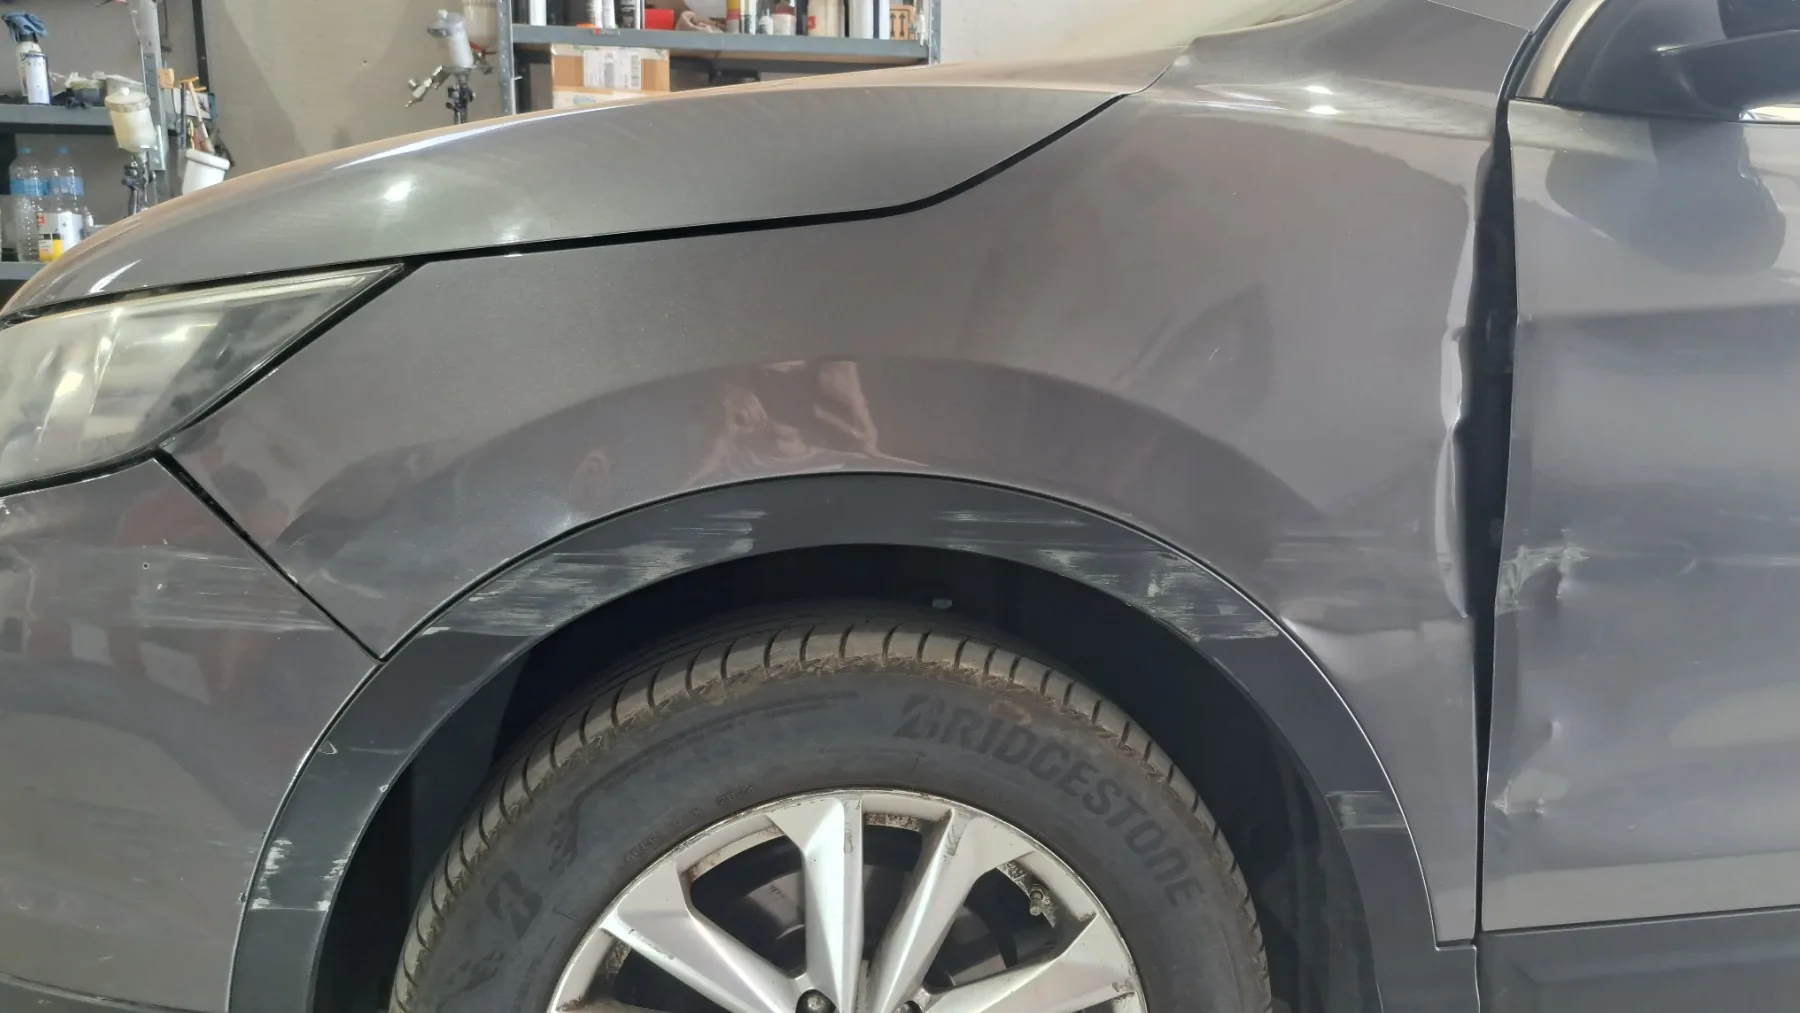
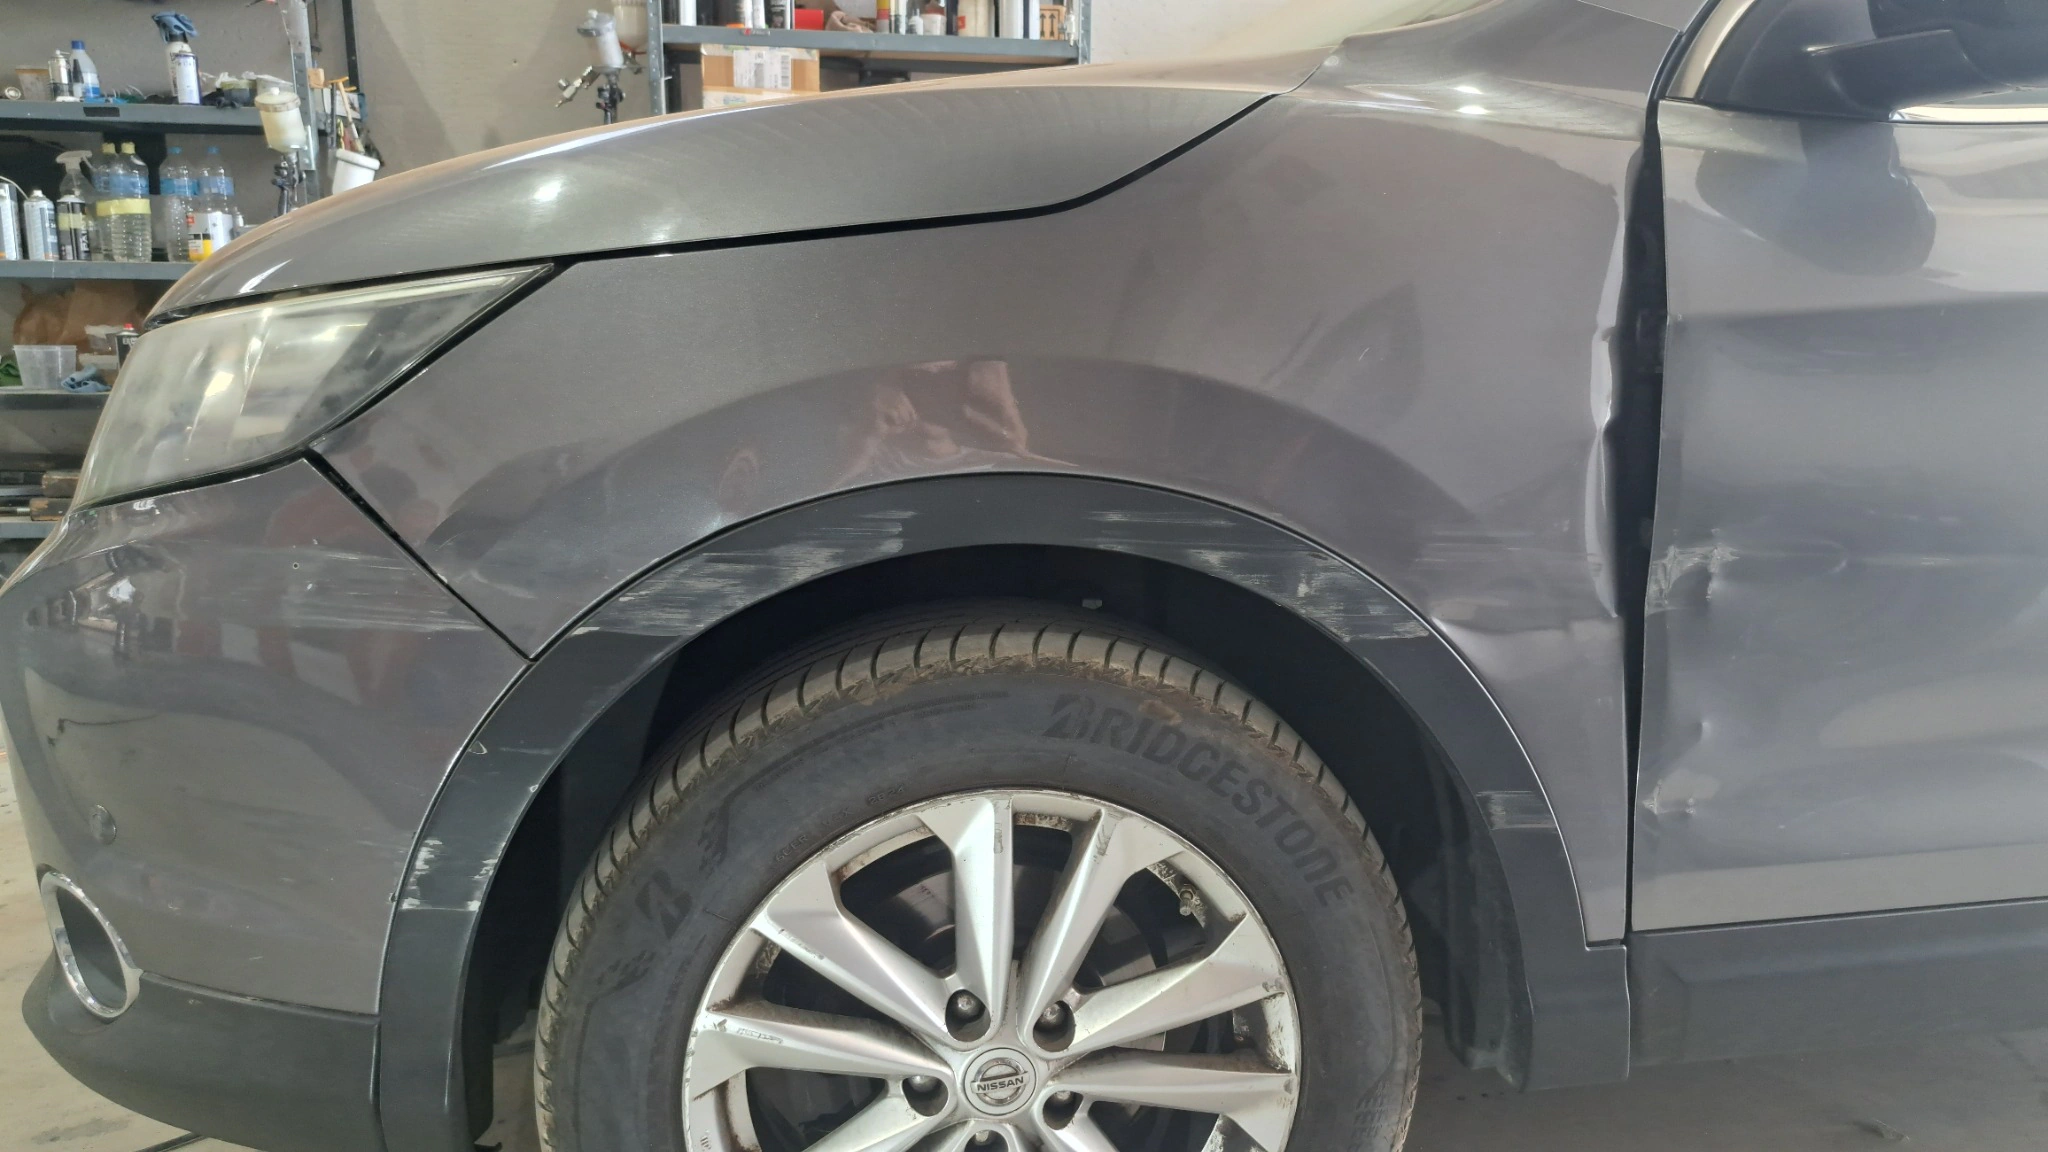
Update Nissan Qashqai before and after images

diff --git a/src/lib/project-seo.ts b/src/lib/project-seo.ts
@@ -62,7 +62,7 @@ export function getProjectMetadata(project: Project, locale: Locale): Metadata {
       title: project.seoTitle[locale],
       description: project.seoDescription[locale],
       publishedTime: project.publishedAt,
-      images: [{ url: image, width: 1800, height: 1013, alt: project.altAfter[locale] }],
+      images: [{ url: image, width: 9248, height: 5204, alt: project.altAfter[locale] }],
     },
     twitter: {
       card: "summary_large_image",
@@ -158,16 +158,16 @@ export function getProjectStructuredData(project: Project, locale: Locale) {
         "@id": `${pageUrl}#before-image`,
         contentUrl: beforeImage,
         caption: project.altBefore[locale],
-        width: 1800,
-        height: 1013,
+        width: 2048,
+        height: 1152,
       },
       {
         "@type": "ImageObject",
         "@id": `${pageUrl}#after-image`,
         contentUrl: afterImage,
         caption: project.altAfter[locale],
-        width: 1800,
-        height: 1013,
+        width: 9248,
+        height: 5204,
       },
     ],
   };

diff --git a/src/components/ui/before-after-slider.tsx b/src/components/ui/before-after-slider.tsx
@@ -17,6 +17,9 @@ type BeforeAfterSliderProps = {
   aspectClassName?: string;
   beforeImageClassName?: string;
   afterImageClassName?: string;
+  beforeObjectPosition?: string;
+  afterObjectPosition?: string;
+  imageQuality?: number;
   sizes?: string;
 };
 
@@ -24,7 +27,7 @@ function clamp(value: number) {
   return Math.min(100, Math.max(0, value));
 }
 
-export function BeforeAfterSlider({ beforeImage, afterImage, beforeAlt, afterAlt, initialPosition = 50, ariaLabel, beforeLabel, afterLabel, className = "", aspectClassName = "aspect-[4/3] sm:aspect-video lg:aspect-[3.08/1]", beforeImageClassName = "object-cover", afterImageClassName = "object-cover", sizes = "(min-width: 1800px) 1728px, (min-width: 768px) calc(100vw - 4rem), calc(100vw - 1.5rem)" }: BeforeAfterSliderProps) {
+export function BeforeAfterSlider({ beforeImage, afterImage, beforeAlt, afterAlt, initialPosition = 50, ariaLabel, beforeLabel, afterLabel, className = "", aspectClassName = "aspect-[4/3] sm:aspect-video lg:aspect-[3.08/1]", beforeImageClassName = "object-cover", afterImageClassName = "object-cover", beforeObjectPosition, afterObjectPosition, imageQuality, sizes = "(min-width: 1800px) 1728px, (min-width: 768px) calc(100vw - 4rem), calc(100vw - 1.5rem)" }: BeforeAfterSliderProps) {
   const [position, setPosition] = useState(clamp(initialPosition));
   const [activePointer, setActivePointer] = useState<number | null>(null);
 
@@ -76,9 +79,9 @@ export function BeforeAfterSlider({ beforeImage, afterImage, beforeAlt, afterAlt
       onPointerCancel={releasePointer}
       className={`group relative isolate w-full cursor-ew-resize touch-pan-y select-none overflow-hidden rounded-[8px] border border-white/25 bg-black outline-none transition focus-visible:border-redline focus-visible:shadow-[0_0_0_2px_rgba(214,0,0,0.35)] ${aspectClassName} ${className}`}
     >
-      <Image src={afterImage} alt={afterAlt} fill draggable={false} loading="lazy" sizes={sizes} className={`pointer-events-none ${afterImageClassName}`} />
+      <Image src={afterImage} alt={afterAlt} fill draggable={false} loading="lazy" quality={imageQuality} sizes={sizes} style={{ objectPosition: afterObjectPosition }} className={`pointer-events-none ${afterImageClassName}`} />
       <div className="absolute inset-0 overflow-hidden" style={{ clipPath: `inset(0 ${100 - position}% 0 0)` }}>
-        <Image src={beforeImage} alt={beforeAlt} fill draggable={false} loading="lazy" sizes={sizes} className={`pointer-events-none ${beforeImageClassName}`} />
+        <Image src={beforeImage} alt={beforeAlt} fill draggable={false} loading="lazy" quality={imageQuality} sizes={sizes} style={{ objectPosition: beforeObjectPosition }} className={`pointer-events-none ${beforeImageClassName}`} />
       </div>
 
       <span className="pointer-events-none absolute left-4 top-4 max-w-[44%] border border-white/25 border-l-[3px] border-l-redline bg-black/75 px-3 py-2 text-center text-[0.55rem] font-semibold uppercase leading-4 tracking-[0.1em] text-white/88 backdrop-blur-sm sm:left-6 sm:top-6 sm:px-5 sm:text-xs sm:tracking-[0.12em]" aria-hidden="true">

diff --git a/src/components/projects/project-detail-page.tsx b/src/components/projects/project-detail-page.tsx
@@ -64,6 +64,11 @@ export function ProjectDetailPage({ locale, project }: ProjectDetailPageProps) {
               afterLabel={copy.after}
               ariaLabel={copy.sliderAria}
               aspectClassName="aspect-[4/3] sm:aspect-video"
+              beforeImageClassName="object-contain"
+              afterImageClassName="object-contain"
+              beforeObjectPosition="50% 50%"
+              afterObjectPosition="50% 50%"
+              imageQuality={95}
               sizes="(min-width: 1800px) 1728px, (min-width: 768px) calc(100vw - 4rem), calc(100vw - 2rem)"
             />
 

diff --git a/src/components/projects/projects-page.tsx b/src/components/projects/projects-page.tsx
@@ -79,6 +79,11 @@ export function ProjectsPage({ locale, projects }: ProjectsPageProps) {
                       afterLabel={copy.after}
                       ariaLabel={copy.sliderAria}
                       aspectClassName="aspect-[4/3] sm:aspect-video"
+                      beforeImageClassName="object-contain"
+                      afterImageClassName="object-contain"
+                      beforeObjectPosition="50% 50%"
+                      afterObjectPosition="50% 50%"
+                      imageQuality={95}
                       sizes="(min-width: 1280px) calc(100vw - 24rem), (min-width: 768px) calc(100vw - 4rem), calc(100vw - 2rem)"
                       className="rounded-none border-0 border-b border-white/15"
                     />

diff --git a/src/data/projects.ts b/src/data/projects.ts
@@ -89,7 +89,7 @@ export const projects: readonly Project[] = [
       cs: "Oprava karoserie a lakování",
     },
     beforeImage: "/images/projects/nissan-qashqai/before.webp",
-    afterImage: "/images/projects/nissan-qashqai/after.webp",
+    afterImage: "/images/projects/nissan-qashqai/after-face-blurred.webp",
     shortDescription: {
       es: "Reparación de daños y arañazos, preparación de la superficie y pintura de la aleta delantera izquierda.",
       en: "Damage and scratch repair, surface preparation and painting of the left front wing.",